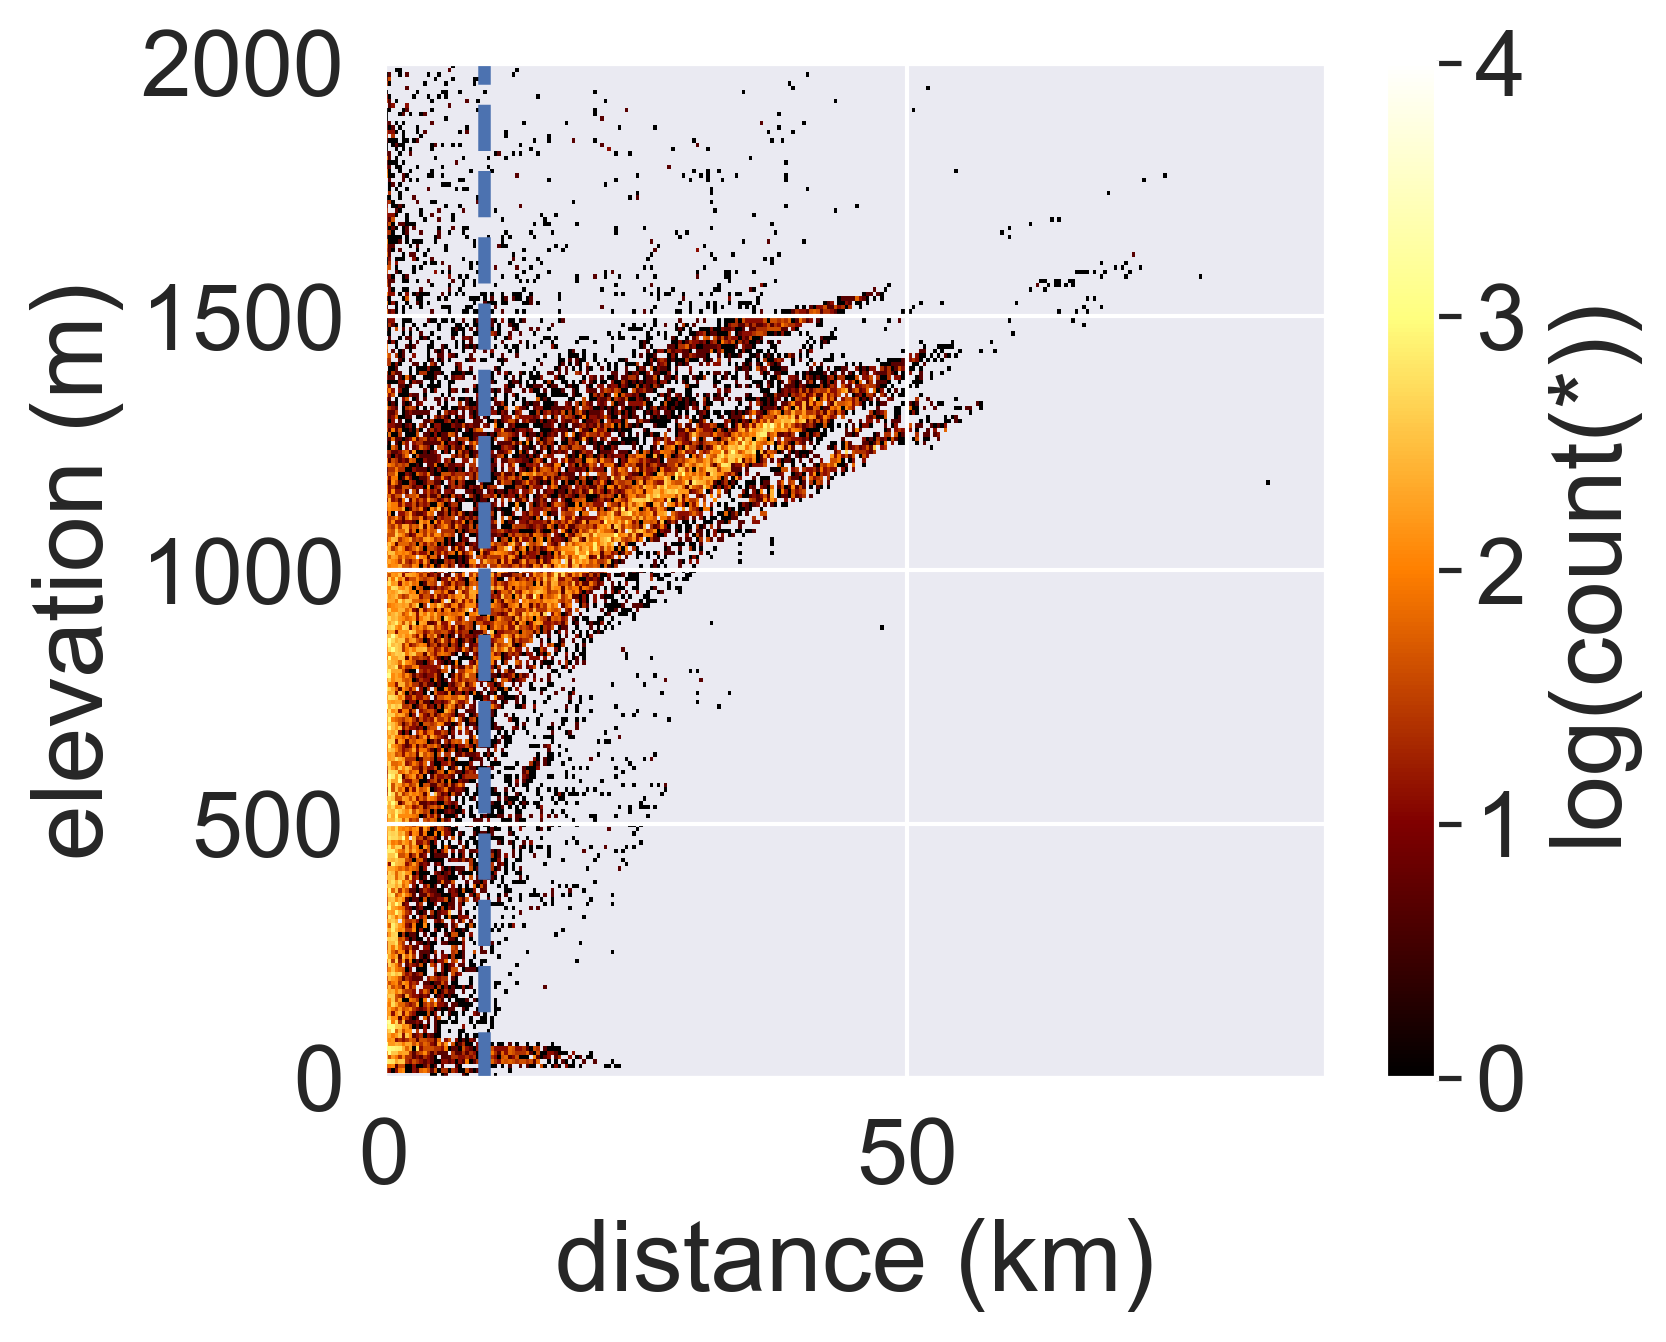
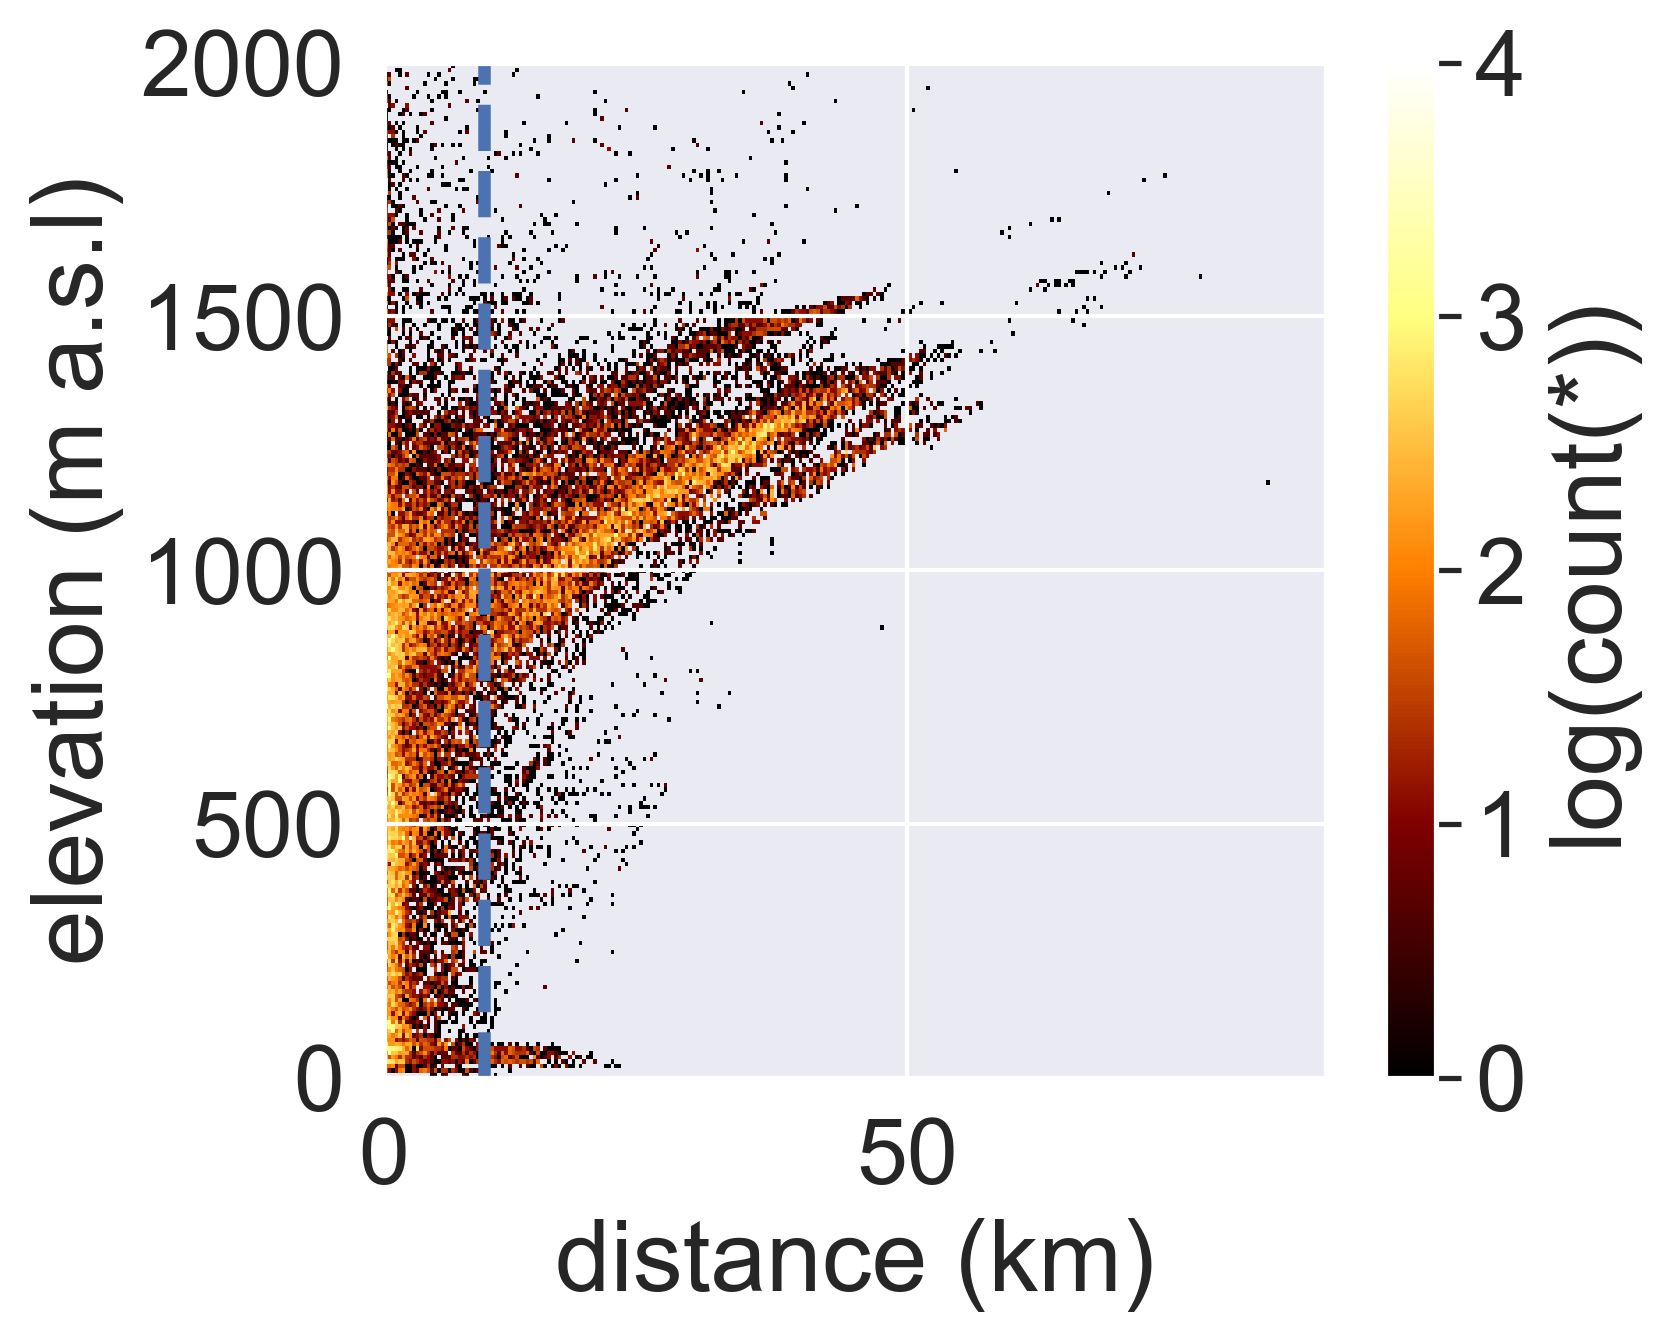
add duration

Changed region(s): [[0.0, 0.1222, 0.0624, 0.7332]]

diff --git a/topoanalysis.py b/topoanalysis.py
@@ -38,7 +38,13 @@ def topo_aspe_plot(basin):
     df = pd.read_csv("/data/shunan/data/topography/basin/" + basin + "_annual.csv")
     df = vx.from_pandas(df)
     df.viz.heatmap('aspect', 'albedo', what=np.log(vx.stat.count()), show=True,
-                    vmin=0, vmax=2.5, xlabel="aspect (" + u'\N{DEGREE SIGN}' + ')', ylabel="albedo")                    
+                    vmin=0, vmax=2.5, xlabel="aspect (" + u'\N{DEGREE SIGN}' + ')', ylabel="albedo")       
+
+def topo_dura_plot(basin):
+    df = pd.read_csv("/data/shunan/data/topography/basin/" + basin + "_annual.csv")
+    df = vx.from_pandas(df)
+    df.viz.heatmap('duration', 'albedo', what=np.log(vx.stat.count()), show=True,
+                    vmin=0, vmax=4.5, xlabel="duration (days)" , ylabel="albedo")                                      
 
 for i in basin:
     fig, ax = plt.subplots(figsize=(6,4))
@@ -75,6 +81,15 @@ for i in basin:
     plt.ylim(0, 0.65)
     topo_aspe_plot(i)
     fig.savefig("print/basin/" + i + "_aspe.png", dpi=300, bbox_inches="tight")        
+
+for i in basin:
+    fig, ax = plt.subplots(figsize=(6,4))
+    ax.annotate(i, xy=(0.7, 0.1),  xycoords='axes fraction')
+    ax.axhline(0.45, ls='--', linewidth=3)
+    plt.xlim(0, 120)
+    plt.ylim(0, 0.65)
+    topo_dura_plot(i)
+    fig.savefig("print/basin/" + i + "_dura.png", dpi=300, bbox_inches="tight")     
 
 #%%
 '''
@@ -131,6 +146,18 @@ plt.legend(bbox_to_anchor=(1.04, 1.31), ncol=2)
 ax.set(ylabel="", xlabel="aspect (" + u'\N{DEGREE SIGN}' + ')' )
 fig.savefig("print/basin/box_aspe.png", dpi=300, bbox_inches="tight")
 
+fig, ax = plt.subplots(figsize=(6,3))
+sns.boxplot(
+    data=df,
+    x="duration",
+    hue="ice_class",
+    y="basin"
+)
+plt.legend(bbox_to_anchor=(1.04, 1.31), ncol=2)
+ax.set(ylabel="", xlabel="duration (days)")
+fig.savefig("print/basin/box_dura.png", dpi=300, bbox_inches="tight")
+
+
 #%%
 '''
 play with dark ice at SW
@@ -161,11 +188,12 @@ ax.axvline(9.57041446875, ls='--', linewidth=3)
 plt.xlim(0,90)
 plt.ylim(0,2000)
 dfvx.viz.heatmap('distance', 'elevation', what=np.log(vx.stat.count()), show=True,
-                 vmin=0, vmax=4, xlabel="distance (km)", ylabel="elevation (m)")
+                 vmin=0, vmax=4, xlabel="distance (km)", ylabel="elevation (m a.s.l)")
 fig.savefig("print/basin/SW_dark_dist_elev.png", dpi=300, bbox_inches="tight")
 
 
 fig, ax = plt.subplots(figsize=(6,5))   
+ax.axvline(9.57041446875, ls='--', linewidth=3)
 # ax.annotate("SW", xy=(0.8, 0.8),  xycoords='axes fraction')
 plt.xlim(0, 90)
 plt.ylim(0, 360)
@@ -209,6 +237,30 @@ sns.boxplot(
 ax.set(xlabel="aspect (" + u'\N{DEGREE SIGN}' + ')', ylabel="")
 plt.legend(bbox_to_anchor=(1.04, 1.31), ncol=2)
 plt.yticks(rotation="vertical", ha="right")
+
+#%%
+'''
+play with dark ice at SE
+'''
+df = pd.read_csv("/data/shunan/data/topography/basin/SE_annual.csv")
+df["distance"] = df.dist/1000
+
+df = df[df.albedo < 0.45]
+df["tan"] = df.elevation / df.dist
+df["arctan"] = np.rad2deg(np.arctan2(df.elevation, df.dist))
+
+dfvx = vx.from_pandas(df)
+
+fig, ax = plt.subplots(figsize=(6,5))
+# ax.annotate("SW", xy=(0.8, 0.1),  xycoords='axes fraction')
+# ax.axvline(9.57041446875, ls='--', linewidth=3)
+# ax.axhline(673.3710066, ls='--', linewidth=3)
+plt.xlim(0,90)
+plt.ylim(0,2000)
+dfvx.viz.heatmap('distance', 'elevation', what=np.log(vx.stat.count()), show=True,
+                 vmin=0, vmax=4, xlabel="distance (km)", ylabel="elevation (m a.s.l)")
+fig.savefig("print/basin/SE_dark_dist_elev.png", dpi=300, bbox_inches="tight")
+
 #%%
 # fig, ax = plt.subplots(figsize=(6,5))
 # # ax.annotate("SW", xy=(0.8, 0.1),  xycoords='axes fraction')

diff --git a/dataPrep.py b/dataPrep.py
@@ -123,9 +123,34 @@ for i in uniquei:
         dfmerge.to_csv("/data/shunan/data/topography/topomerge.csv", 
                         mode="a", index=False, header=False)
 
-
-#%% get montly average
+#%% estimate duration of bare ice
 df = pd.read_csv("/data/shunan/data/topography/topomerge.csv")
+df["datetime"] = pd.to_datetime(df.time_x, unit="ms")
+df["year"] = df.datetime.dt.year
+df["month"] = df.datetime.dt.month
+df["duration"] = np.nan
+
+uniquei = df.id.unique()
+
+for i in uniquei:
+    print("Processing No. %d" % i)
+    dfsub = df[df.id == i]
+    for y in dfsub.year.unique():
+        index = (dfsub.month>5) & (dfsub.month<10) & (dfsub.albedo<0.65)  & (dfsub.year == y)
+        if sum(index) == 0:
+            continue
+        dfsub.duration[index] = (dfsub[index].datetime.iloc[-1] - dfsub[index].datetime.iloc[0]).days
+
+    dfsub = dfsub.drop(columns = ['datetime', 'year', 'month'])
+    if i == 0:
+        dfsub.to_csv("/data/shunan/data/topography/topodata.csv", 
+                        mode="w", index=False, header=True)   
+    else:
+        dfsub.to_csv("/data/shunan/data/topography/topodata.csv", 
+                        mode="a", index=False, header=False)  
+
+#%% keep bare ice surface only
+df = pd.read_csv("/data/shunan/data/topography/topodata.csv")
 df["datetime"] = pd.to_datetime(df.time_x, unit="ms")
 df["year"] = df.datetime.dt.year
 df["month"] = df.datetime.dt.month
